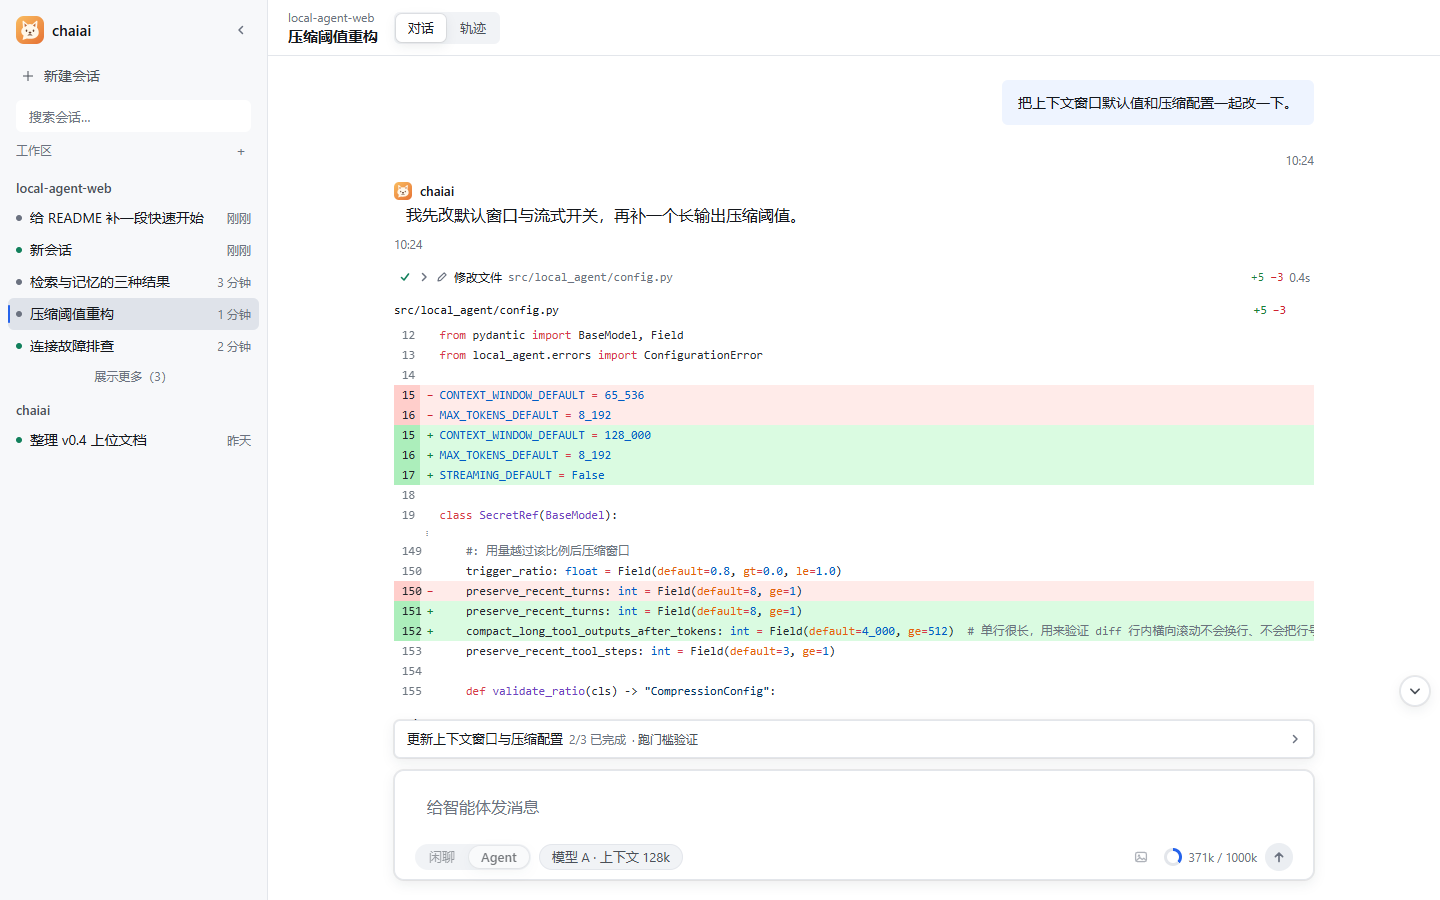
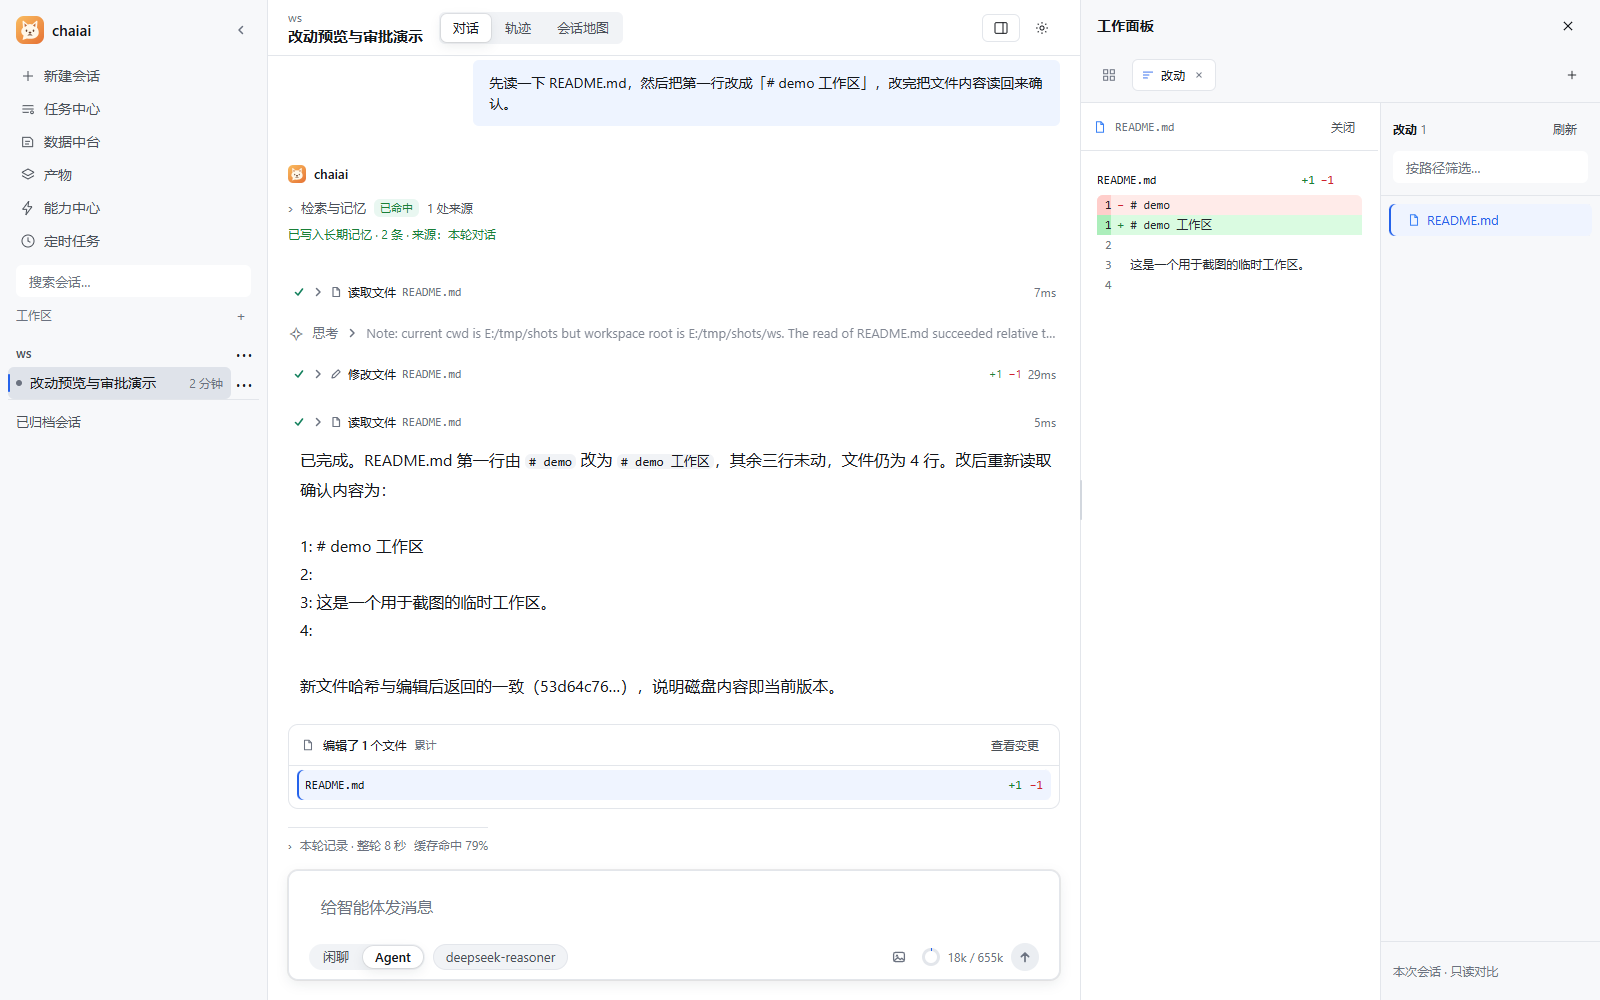
docs: 换掉过期的夹具截图，改用真实界面（含数据中台）
原截图来自 `?state=` 夹具原型，是早期视觉基线，与现在的 LiveApp 不是同一套界面。

这次用**临时数据目录**起真服务拍的（不碰真实数据）：
- 工作区 `E:\tmp\shots\ws`、端口 8129，跑完即删
- 模型连接从设置库拷一份、密钥走进程环境变量，未写入任何文件
- 实跑一轮任务（读文件 → 改文件 → 读回确认），因此图里的工具卡片、耗时、改动账本、
  缓存命中率都是真实产生的结果

三张图：
- conversation.png：最新对话页（工具卡片、记忆写入、改动卡片、本轮记录）
- changes.png：右栏工作面板 + 红绿 diff（1600 宽）
- data-center.png：数据中台（5 次调用、73,437 输入 token、缓存命中 79.3%）

删掉夹具时代的 errors.png 与只有一个节点的 map.png；README 里三处图片引用与说明同步更新。

diff --git a/README.md b/README.md
@@ -14,7 +14,7 @@
 
 ![对话与工具执行](docs/assets/screenshots/conversation.png)
 
-*界面截图使用仓库内的夹具场景渲染（演示数据，非真实会话）。*
+*截图为真实界面：在一个临时演示工作区里跑的一轮任务，包含工具调用、记忆写入与改动账本。*
 
 ## 它解决的问题
 
@@ -62,13 +62,12 @@ uv run python -m local_agent.api
 - 一轮任务由模型自己决定调用哪些工具、调几次；过程、思考、参数、输出、耗时都在页面上
 - **审批卡**是关键动作的闸门：写文件、跑命令、启动终端都要你点「允许一次」，批准只对那一次生效
 - 只读工具可以并行；改动会在对话里内联成 diff，不用切页签
-
-![改动内联预览](docs/assets/screenshots/changes.png)
-
 - 运行中可随时停止；停止只中断这一轮，**不撤销已经发生的副作用**，页面会明确告诉你哪些已执行
-- 失败如实报告，不伪装成成功：
+- 失败如实报告，不伪装成成功
 
-![失败如实报告](docs/assets/screenshots/errors.png)
+右栏工作面板可以一边看对话、一边对照改动：
+
+![右栏工作面板：改动与 diff](docs/assets/screenshots/changes.png)
 
 ### 文件与命令
 
@@ -94,6 +93,8 @@ uv run python -m local_agent.api
 | 中期 | 对话摘要的向量 | 语义召回（可选依赖：Chroma + Embedding），阈值可调 |
 
 记忆不是黑盒：数据中台能看到写入了什么、召回了什么、每次调用的 token 与缓存命中。
+
+![数据中台：调用用量、缓存命中与记忆](docs/assets/screenshots/data-center.png)
 
 ### 联网检索
 
